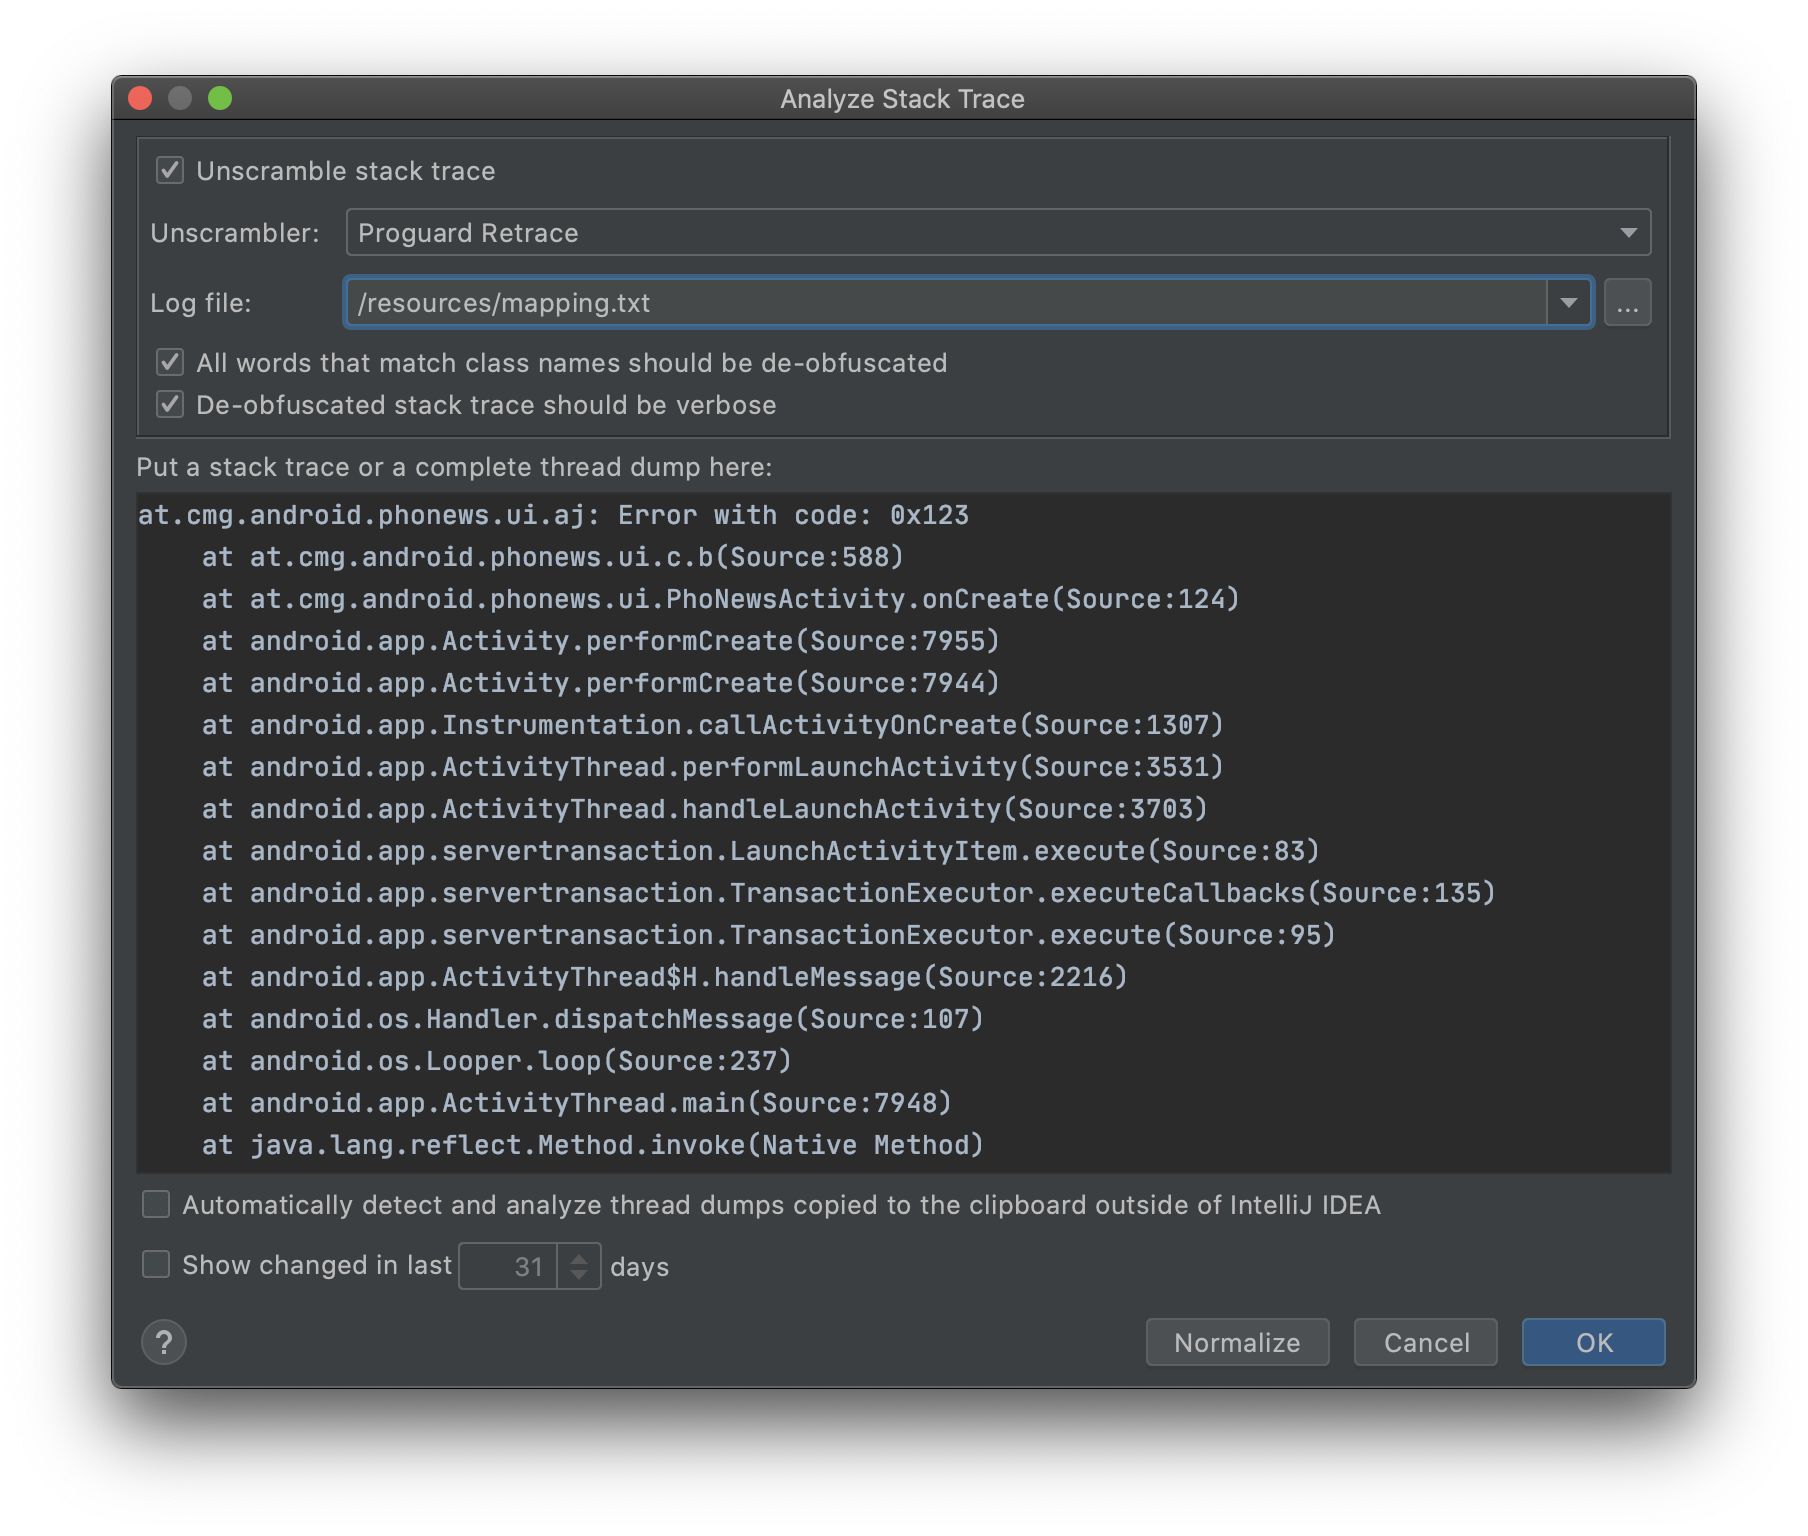
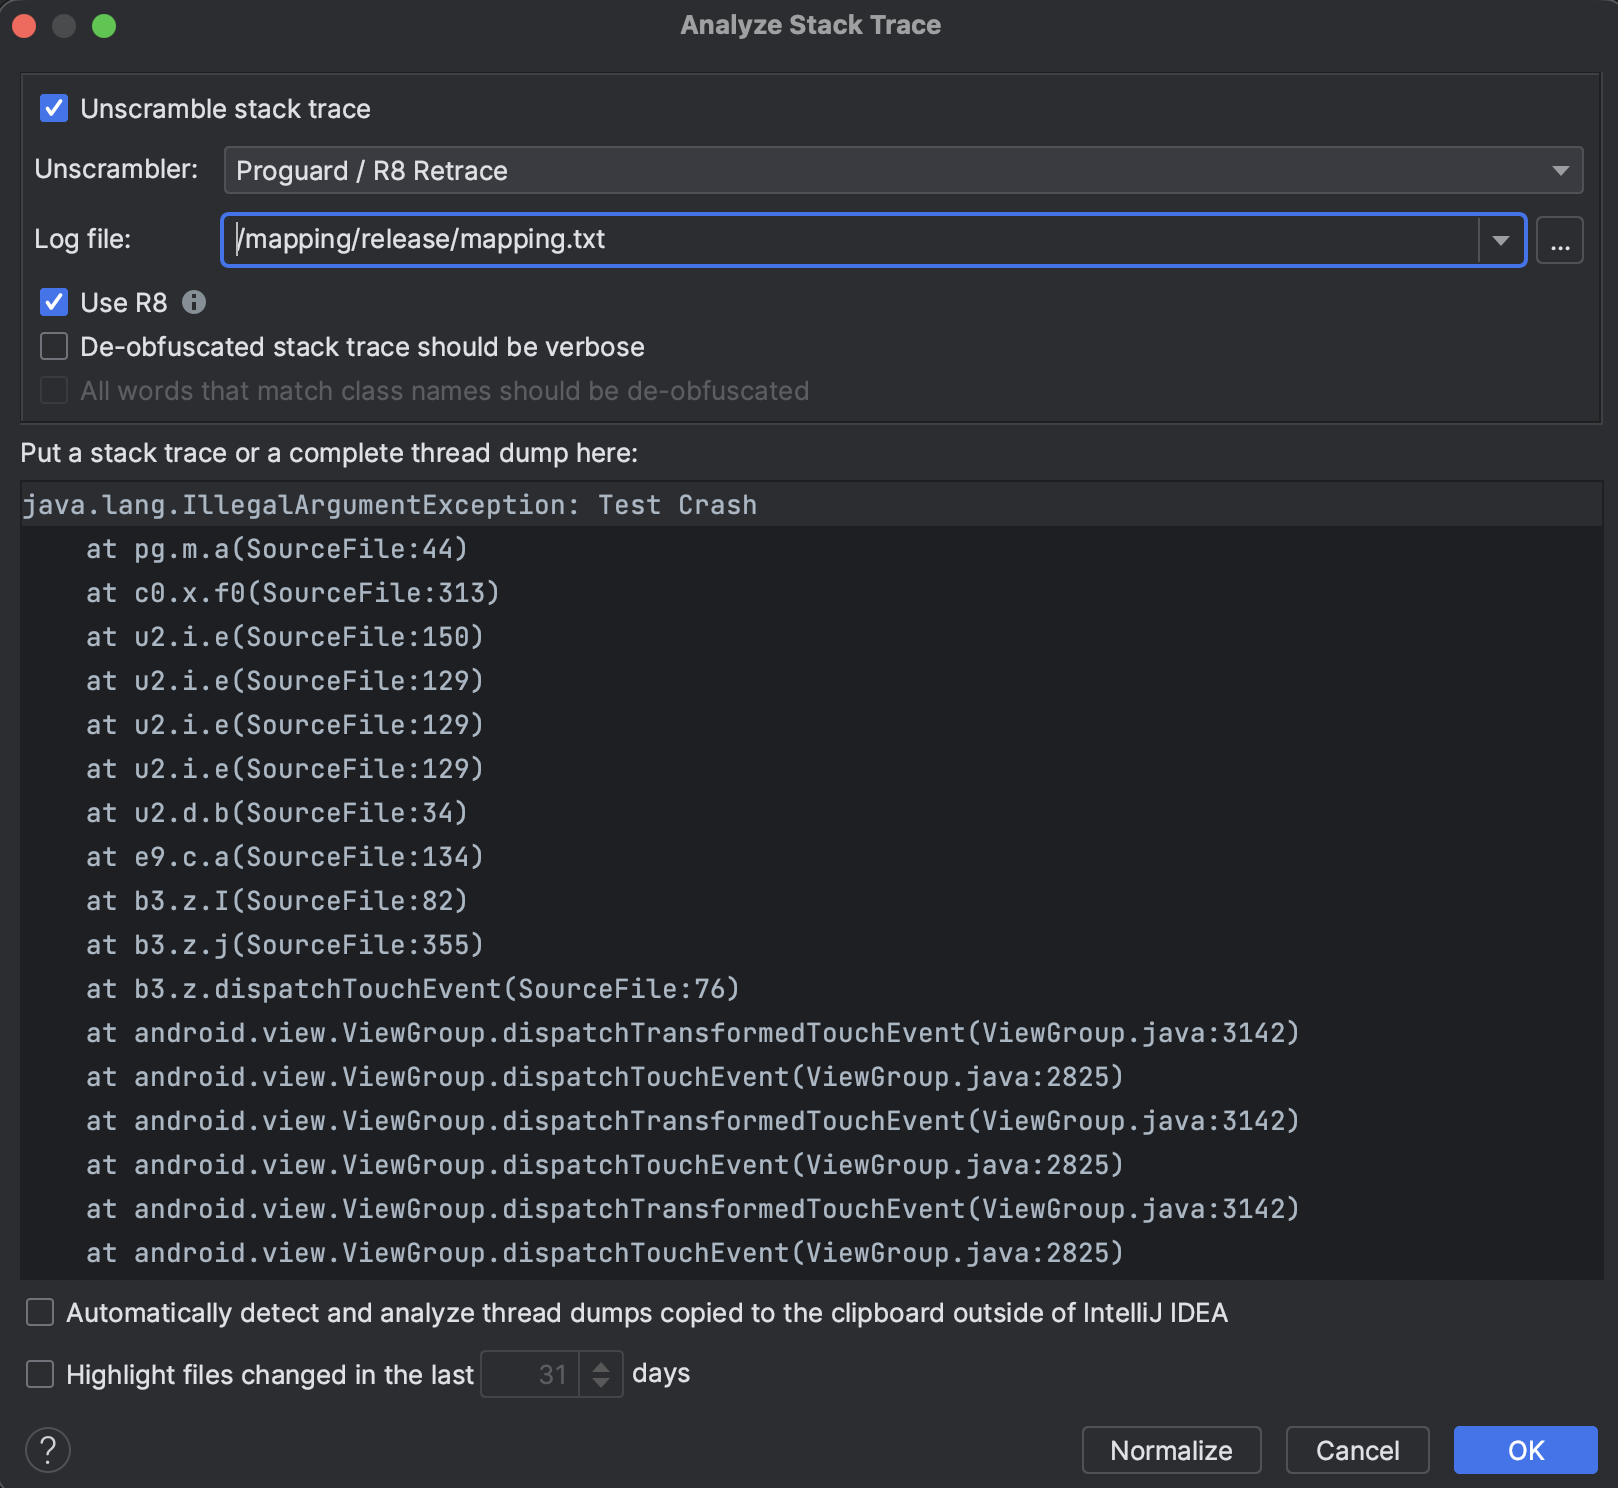
update README.md

diff --git a/README.md b/README.md
@@ -3,12 +3,18 @@
 [![License](https://img.shields.io/badge/license-Apache%202.0-brightgreen.svg?style=for-the-badge)](http://www.apache.org/licenses/LICENSE-2.0)
 [![JetBrains IntelliJ Plugins](https://img.shields.io/jetbrains/plugin/v/15267-proguard-retrace-unscrambler?style=for-the-badge)][3]
 
+<picture>
+  <source media="(prefers-color-scheme: dark)" srcset="./art/pluginIcon-dark.svg">
+  <source media="(prefers-color-scheme: light)" srcset="./art/pluginIcon.svg">
+  <img alt="Proguard \ R8 Retrace plugin icon" src="./art/pluginIcon.svg">
+</picture>
+
 This is an [IntelliJ IDEA][1] and [Android Studio][2] Plugin to de-obfuscate your stacktraces.
 
 ## Installation
 
 * In the Settings/Preferences dialog, select Plugins.
-* Search for `Proguard Retrace Unscrambler`
+* Search for `Proguard / R8 Retrace Unscrambler`
 
 OR
 
@@ -21,7 +27,7 @@ In IntelliJ IDEA or Android Studio
 * Go to _Analyze_
 * Select _Analyze Stacktrace…_
 * Check _Unscramble stacktrace_
-* Select _Proguard Retrace_
+* Select _Proguard / R8 Retrace_
 * Choose Proguard/R8 mapping file in _Log file_
 * Paste stacktrace and Press _OK_
 
@@ -32,17 +38,7 @@ In IntelliJ IDEA or Android Studio
 ```text
 Copyright (c) 2020. Christian Grach <christian.grach@cmgapps.com>
 
-Licensed under the Apache License, Version 2.0 (the "License");
-you may not use this file except in compliance with the License.
-You may obtain a copy of the License at
-
-      http://www.apache.org/licenses/LICENSE-2.0
-
-Unless required by applicable law or agreed to in writing, software
-distributed under the License is distributed on an "AS IS" BASIS,
-WITHOUT WARRANTIES OR CONDITIONS OF ANY KIND, either express or implied.
-See the License for the specific language governing permissions and
-limitations under the License.
+SPDX-Licence-Identifier: Apache-2.0
 ```
 
 [1]: https://www.jetbrains.com/idea/
